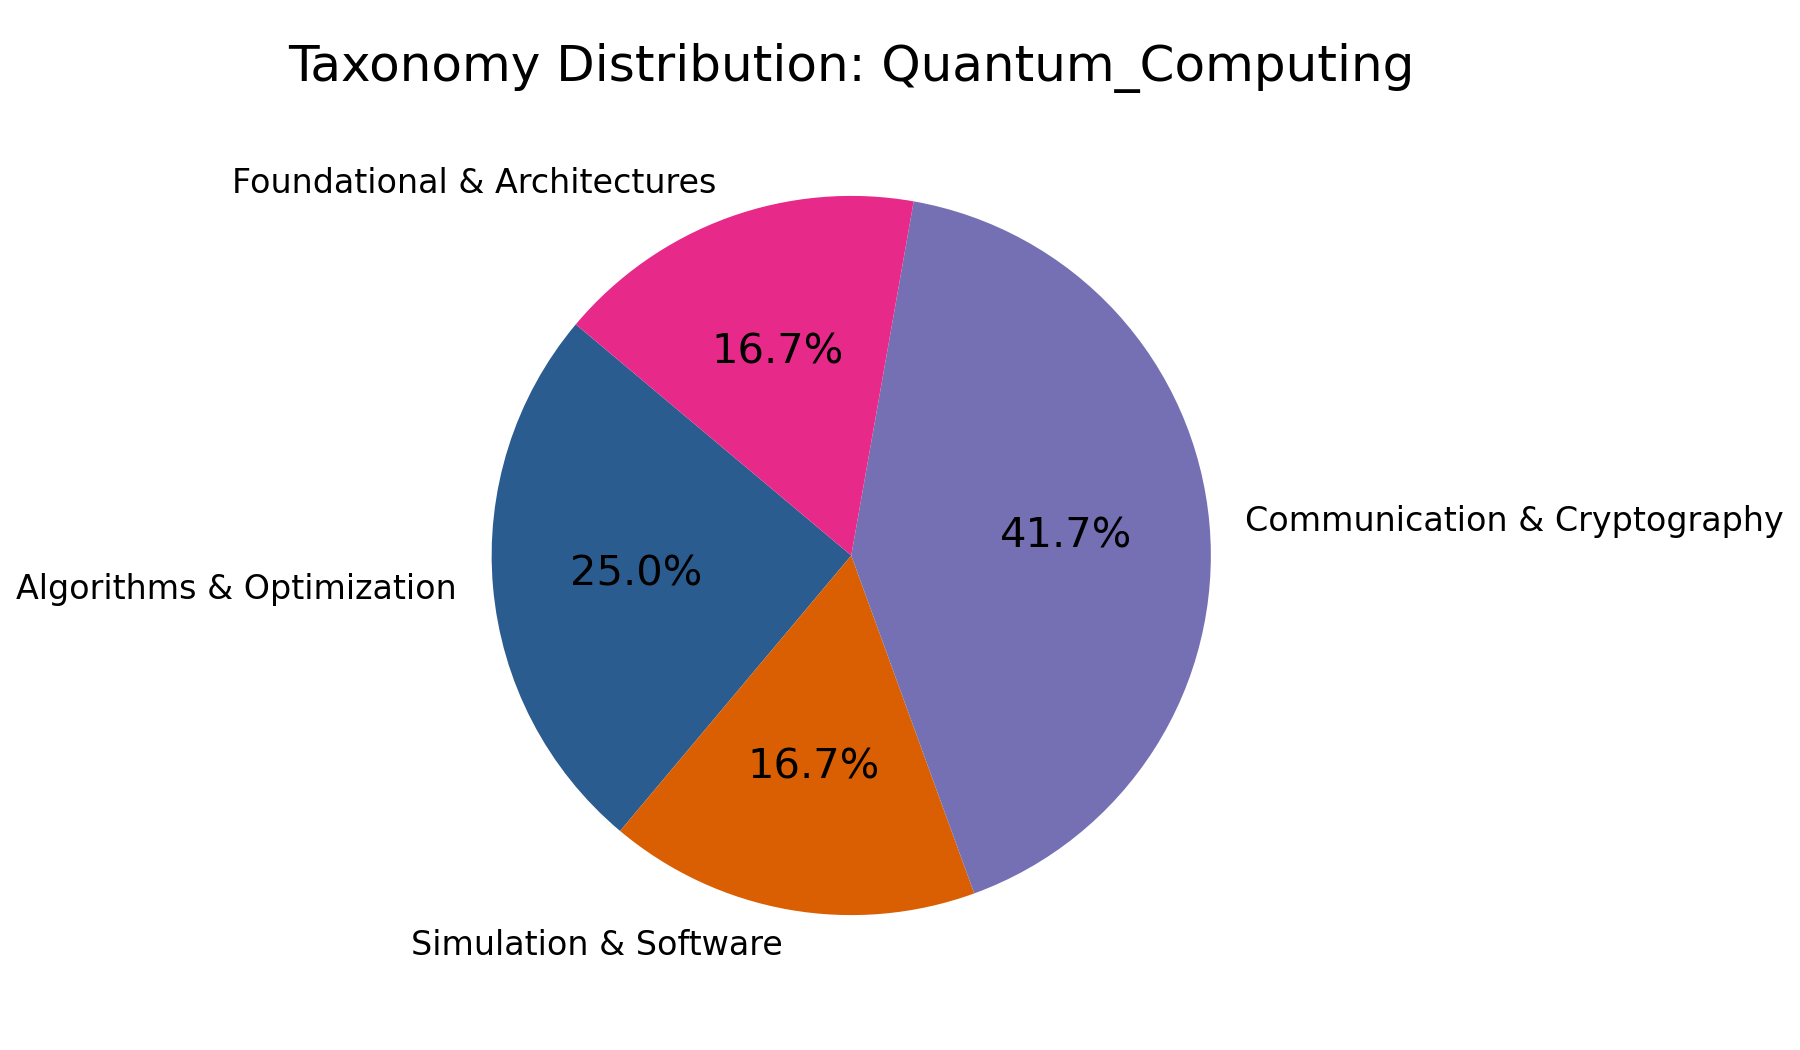
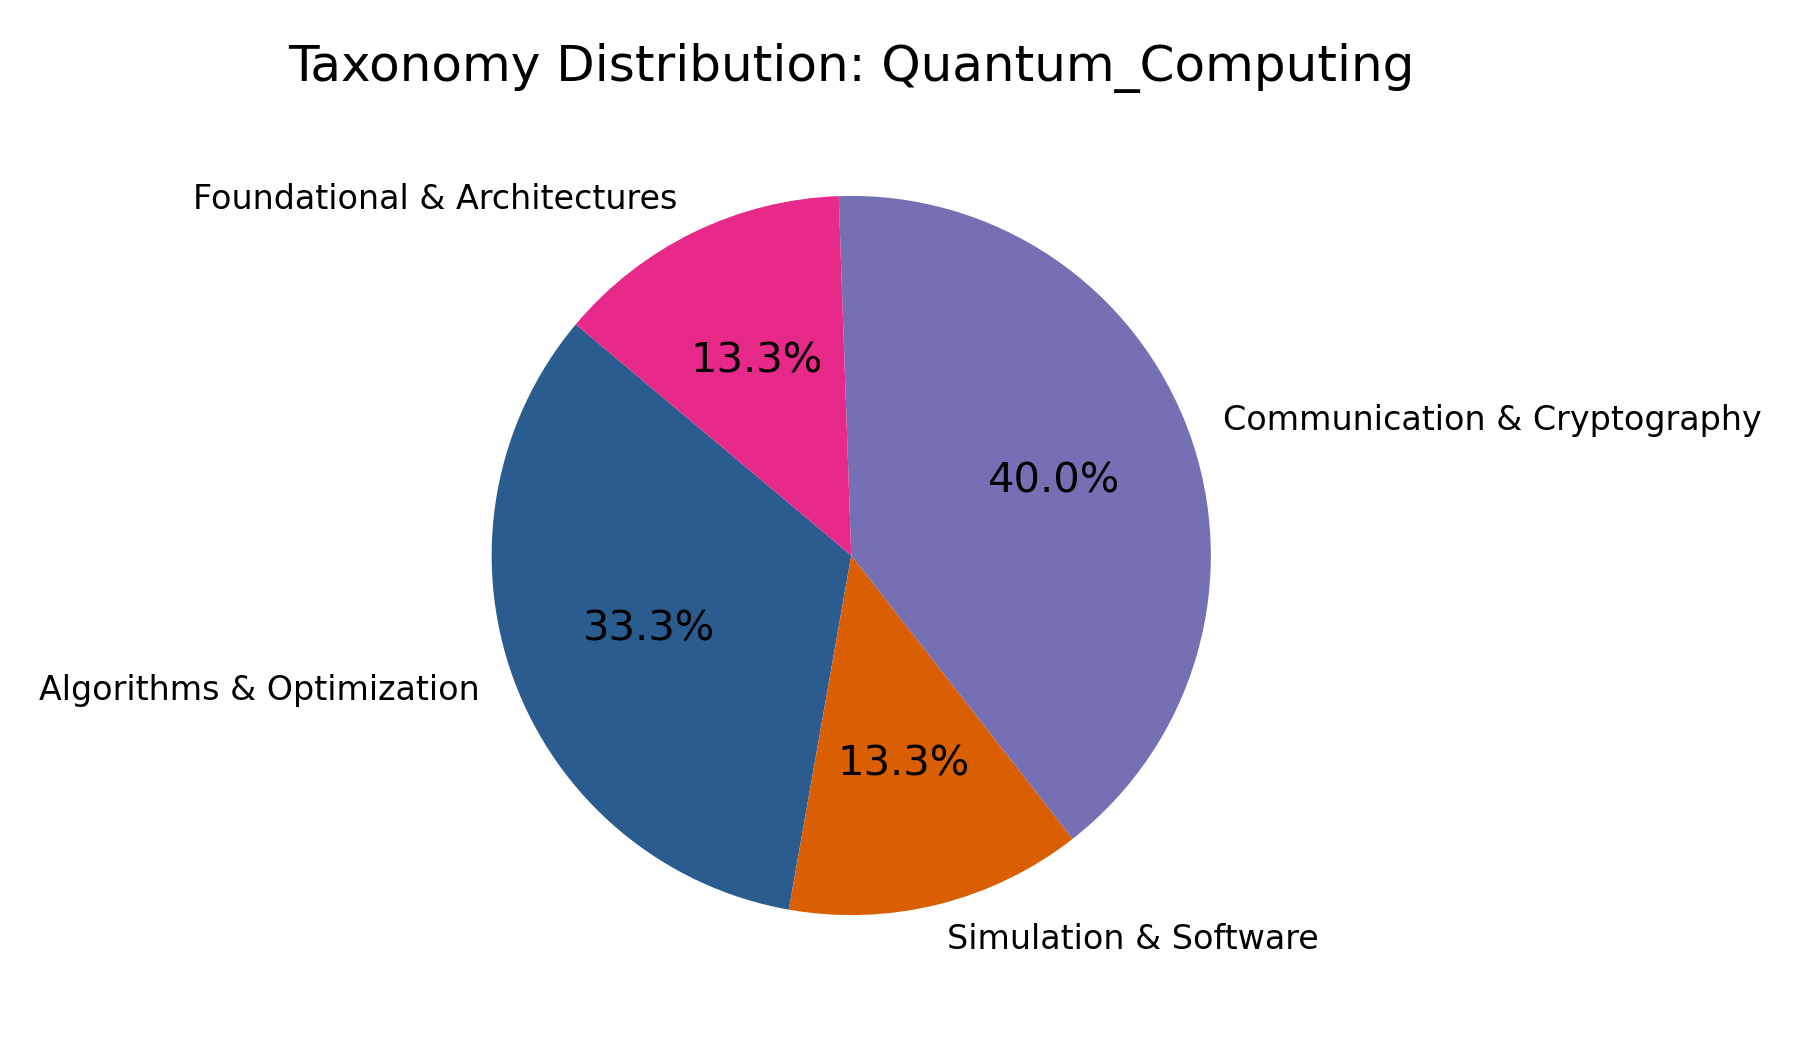
feat(quantum_computing): integrated valid papers (LSS: 74.64)

diff --git a/surveys/quantum_computing/generate_figures.py b/surveys/quantum_computing/generate_figures.py
@@ -11,8 +11,8 @@ plt.rcParams.update({'font.size': 10, 'axes.labelsize': 11, 'axes.titlesize': 12
 
 SURVEY_TITLE = "Quantum_Computing"
 # [AI AGENT ZONE] Edit only these dictionaries
-TIMELINE_DATA = {"2021": 2, "2022": 3, "2023": 3, "2024": 0, "2025": 2, "2026": 2}
-TAXONOMY_DATA = {"Algorithms & Optimization": 3, "Simulation & Software": 2, "Communication & Cryptography": 5, "Foundational & Architectures": 2}
+TIMELINE_DATA = {"2020": 1, "2021": 4, "2022": 3, "2023": 3, "2024": 0, "2025": 2, "2026": 2}
+TAXONOMY_DATA = {"Algorithms & Optimization": 5, "Simulation & Software": 2, "Communication & Cryptography": 6, "Foundational & Architectures": 2}
 
 def plot_publication_timeline():
     years, counts = list(TIMELINE_DATA.keys()), list(TIMELINE_DATA.values())

diff --git a/surveys/quantum_computing/quantum_computing.md b/surveys/quantum_computing/quantum_computing.md
@@ -5,13 +5,13 @@
 This document collects the scientific literature regarding **Quantum_Computing**.
 
 ## Quantum Algorithms and Optimization
-Recent research continues to refine quantum algorithms for complex optimization problems. Acampora and Vitiello introduced a hybrid granular computing approach to quantum genetic optimization, demonstrating that hierarchically reducing search spaces allows near-optimal solutions to be identified even on current limited-qubit processors [^10.1007_s41066-022-00348-9]. Similarly, Malinverno and colleagues have explored the application of quantum algorithms to computational fluid dynamics (CFD), specifically utilizing the Lattice Boltzmann Method to simulate 2D flows around cylinders, highlighting both the promising applicability and inherent implementation difficulties of quantum approaches in engineering simulations [^10.11159_icffts23.133][^10.21741_9781644902813-38].
+Recent research continues to refine quantum algorithms for complex optimization problems. Acampora and Vitiello introduced a hybrid granular computing approach to quantum genetic optimization, demonstrating that hierarchically reducing search spaces allows near-optimal solutions to be identified even on current limited-qubit processors [^10.1007_s41066-022-00348-9]. Similarly, Malinverno and colleagues have explored the application of quantum algorithms to computational fluid dynamics (CFD), specifically utilizing the Lattice Boltzmann Method to simulate 2D flows around cylinders, highlighting both the promising applicability and inherent implementation difficulties of quantum approaches in engineering simulations [^10.11159_icffts23.133][^10.21741_9781644902813-38]. Jun formulated QUBO models for solving linear systems by leveraging linear least-square problems with binary representations, validating these approaches on D-Wave quantum annealers to demonstrate practical utility for numerical computing [^10.48550_arxiv.2106.10819]. Additionally, Ghosh introduced QGameTheory, an R package providing a comprehensive simulation toolbox for quantum game theory, enabling the modeling of classical strategic interactions like the Prisoner's Dilemma and Monty Hall Problem within quantum frameworks [^10.32614_cran.package.qgametheory].
 
 ## Quantum Simulation and Software Ecosystems
 The development of robust software tools is critical for advancing quantum simulation capabilities. Candoli et al. presented PULSEE, an open-source Python package that bridges magnetic resonance spectroscopy and quantum information science by simulating spin time evolution and quantum gates, facilitating the study of strongly correlated quantum materials [^10.1016_j.cpc.2022.108598]. In the domain of materials science, Camino et al. provided a practical guide to applying quantum annealing to configurational analysis, demonstrating how defective graphene structures can be modeled and evaluated on D-Wave annealers to solve problems intractable for classical computers [^10.1063_5.0151346].
 
 ## Quantum Communication and Cryptographic Implications
-Quantum communication networks and their cryptographic foundations remain a highly active research frontier. Sadiku et al. outlined the theoretical framework of the quantum internet, positioning it as a transformative infrastructure for ultra-secure connectivity and quantum device interconnectivity [^10.31695_ijerat.2025.9.1]. Building on protocol implementations, Badiezadegan detailed a comprehensive Python simulation of the BB84 QKD protocol, modeling state preparation, intercept-resend attacks, and classical post-processing to bridge theoretical QIS with practical secure communication [^10.6084_m9.figshare.32051724]. Kastanoulas further compared foundational quantum cryptography protocols (BB84, B92, B91) and analyzed security threats like photon splitting and faked-state attacks [^https:__openalex.org_W7112574406]. Conversely, the advent of large-scale quantum computers poses direct threats to classical and post-quantum cryptography. MATZOV reported significant algorithmic improvements to dual lattice attacks against Learning With Errors (LWE) schemes, demonstrating that these attacks can now exceed the efficiency of primal attacks and reduce the security margins of NIST PQC finalists like Kyber and Dilithium [^10.5281_zenodo.6493704]. Pandya et al. addressed this by proposing a hybrid encryption system that integrates dynamic compression and dual authentication, while discussing the impact of Grover’s and Shor’s algorithms and outlining strategies for post-quantum cryptography integration [^10.56975_tijer.v13i3.161368].
+Quantum communication networks and their cryptographic foundations remain a highly active research frontier. Sadiku et al. outlined the theoretical framework of the quantum internet, positioning it as a transformative infrastructure for ultra-secure connectivity and quantum device interconnectivity [^10.31695_ijerat.2025.9.1]. Building on protocol implementations, Badiezadegan detailed a comprehensive Python simulation of the BB84 QKD protocol, modeling state preparation, intercept-resend attacks, and classical post-processing to bridge theoretical QIS with practical secure communication [^10.6084_m9.figshare.32051724]. Kastanoulas further compared foundational quantum cryptography protocols (BB84, B92, B91) and analyzed security threats like photon splitting and faked-state attacks [^https:__openalex.org_W7112574406]. Conversely, the advent of large-scale quantum computers poses direct threats to classical and post-quantum cryptography. MATZOV reported significant algorithmic improvements to dual lattice attacks against Learning With Errors (LWE) schemes, demonstrating that these attacks can now exceed the efficiency of primal attacks and reduce the security margins of NIST PQC finalists like Kyber and Dilithium [^10.5281_zenodo.6493704]. Pandya et al. addressed this by proposing a hybrid encryption system that integrates dynamic compression and dual authentication, while discussing the impact of Grover’s and Shor’s algorithms and outlining strategies for post-quantum cryptography integration [^10.56975_tijer.v13i3.161368]. Gidney and Ekerå significantly optimized Shor's algorithm, estimating that factoring 2048-bit RSA integers could be achieved in just 8 hours using 20 million noisy qubits, while thoroughly accounting for noise, error correction overheads, and spacetime layout to quantify the imminent threat to classical cryptographic standards [^10.22331_q-2021-04-15-433].
 
 ## Foundational Perspectives and Future Architectures
 Foundational reviews continue to shape the understanding of quantum computing's trajectory. Jayaram and Adavi provided an accessible exposition of quantum percepts, emphasizing superposition and entanglement as the hallmarks distinguishing quantum bits from classical digital logic [^10.5120_ijca2021921834]. Looking toward broader computational paradigms, Treleaven offered comparative architectural descriptions of digital, quantum, and biological computers, advocating for standardized engineering models to facilitate industry adoption [^10.1109_mc.2021.3083430].
